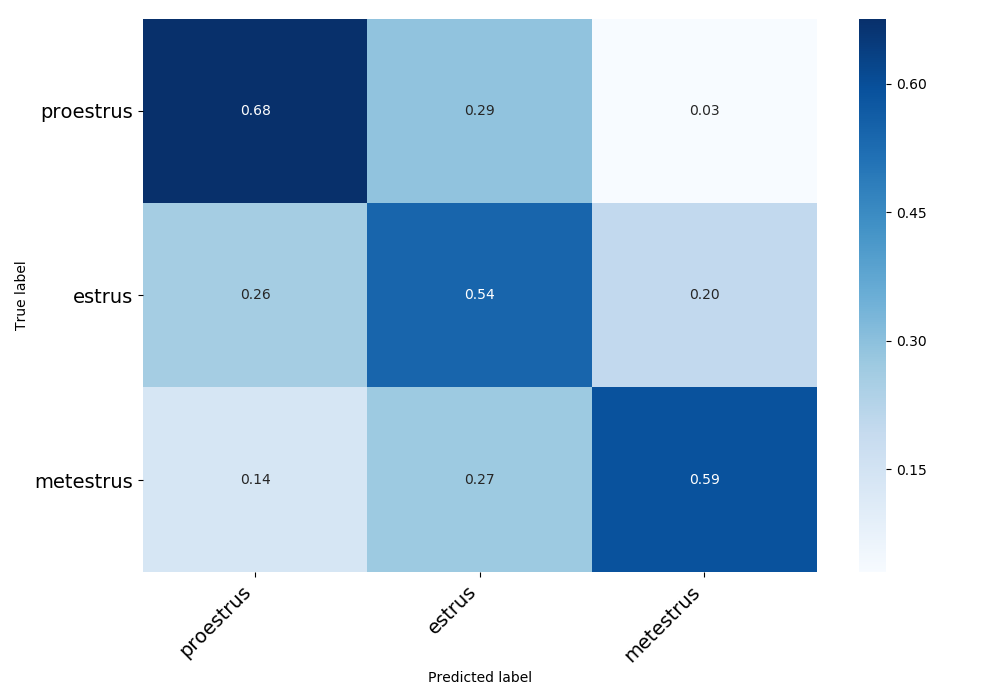
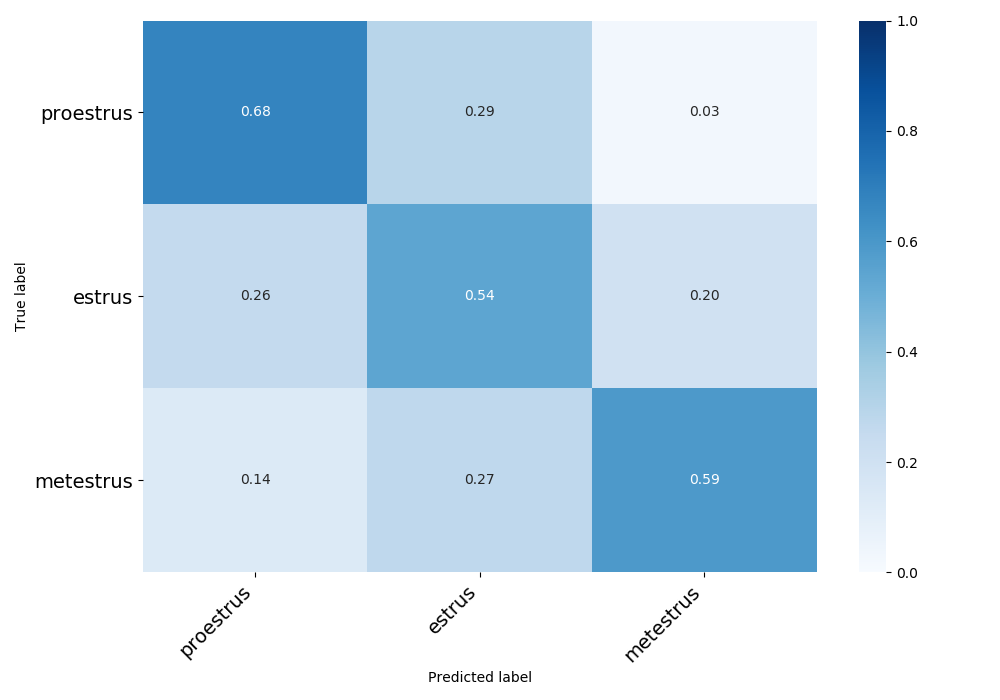
Anchor normalized confusion matrices between 0 and 1
This is for consistency when comparing confusion matrix images

diff --git a/metrics.py b/metrics.py
@@ -95,6 +95,9 @@ def plot_confusion_matrix(confusion_matrix, class_names, normalize=False,
     if normalize:
         confusion_matrix = confusion_matrix / \
             confusion_matrix.sum(axis=1)[:, np.newaxis]
+        vmin, vmax = 0.0, 1.0
+    else:
+        vmin, vmax = 0, None
     # make a dataframe with rows and columns labeled as class names
     df_cm = pd.DataFrame(
         confusion_matrix, index=class_names, columns=class_names,
@@ -103,7 +106,8 @@ def plot_confusion_matrix(confusion_matrix, class_names, normalize=False,
     fig = plt.figure(figsize=figsize)  # make a figure
     fmt = "0.2f" if normalize else "d"  # number format
     # make the confusion matrix as a heatmap for colors
-    heatmap = sns.heatmap(df_cm, annot=True, fmt=fmt, cmap=cmap)
+    heatmap = sns.heatmap(df_cm, vmin=vmin, vmax=vmax,
+                          annot=True, fmt=fmt, cmap=cmap)
 
     # set our axis tick labels for the classes
     heatmap.yaxis.set_ticklabels(
